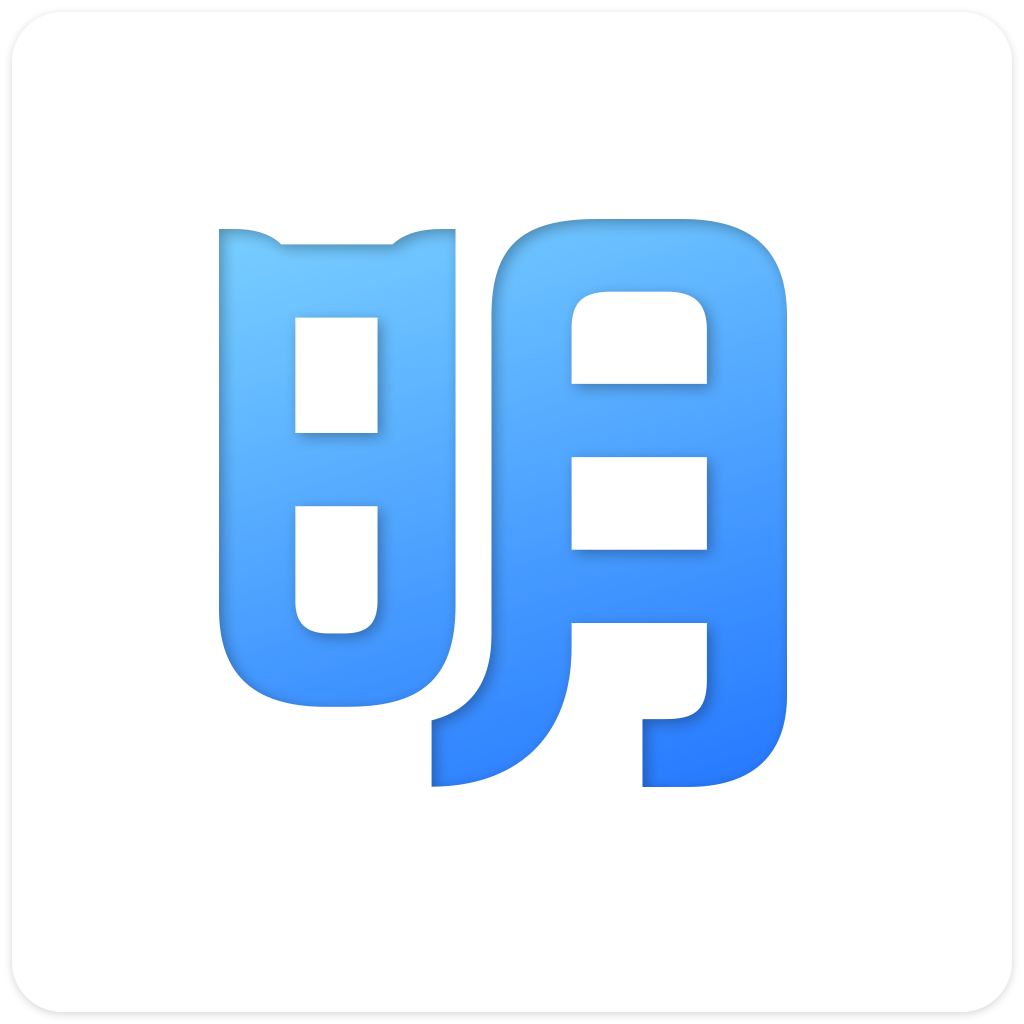
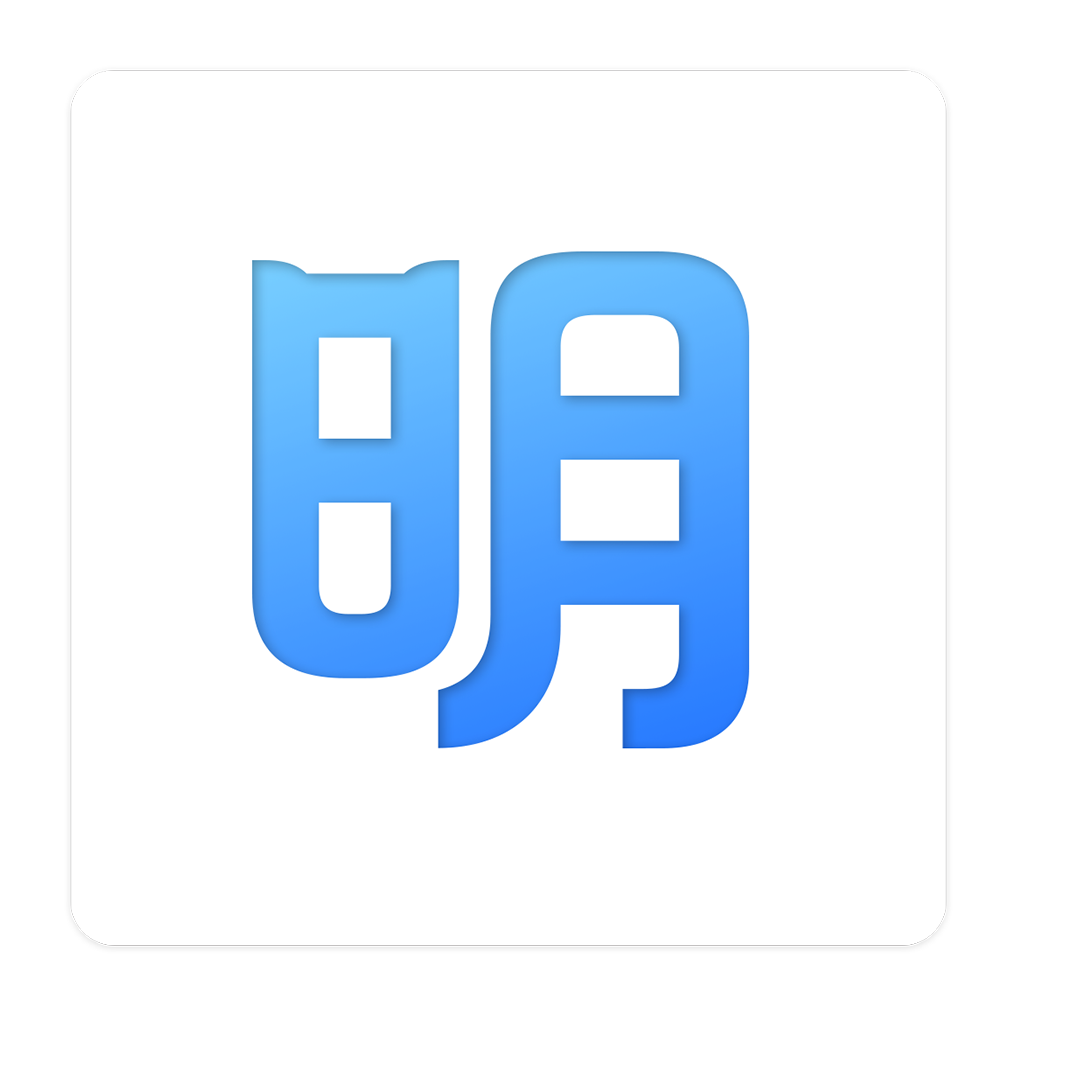
换了图标

Changed region(s): [[0.1875, 0.1875, 0.7812, 0.7812], [0.2812, 0.3125, 0.375, 0.4375]]

diff --git a/lib/index.js b/lib/index.js
@@ -87,7 +87,7 @@ function global_event($){
     var settingName="setting.json";
     var settingPath=path.join(gui.App.dataPath,settingName);
     var defaultSetting={
-        closeIsMin:false
+        closeIsMin:true
     };
     function getSetting(){
         var fs=require('fs');
@@ -127,6 +127,7 @@ function global_event($){
         win.focus();
     });
     gui.App.on("reopen",function(){
+        updateTray(jQuery("div.messageLittleRedDot").text());
         win.show();
         win.focus();
     });
@@ -178,43 +179,26 @@ var menu = new Menu();
 /**
  * tray
  */
-
+var newPng=window.isMac?'new-mac.png':'new.png';
 var updateTray=function(count){
     var global_tray=getTray();
     if (!global_tray) {
         createTray();
     }
     if (count) {
-        if (!isMac&&!GLOBAL_INTERVAL) {
-            GLOBAL_INTERVAL = setInterval(function () {
-                amount();
-            }, 600);
+        if (!isMac) {
+            if (global_tray)
+                global_tray.icon = newPng;
         }
         win.setBadgeLabel(count);
         win.requestAttention(true)
     }else{
-        if(GLOBAL_INTERVAL!=null){
-            clearInterval(GLOBAL_INTERVAL)
-            GLOBAL_INTERVAL = null;
-            if (global_tray)
-                global_tray.icon = gui.App.manifest.window.icon;
-        }
+        if (global_tray)
+            global_tray.icon = gui.App.manifest.window.icon;
         win.setBadgeLabel('');
         win.requestAttention(false)
     }
 }
-var newPng=window.isMac?'new-mac.png':'new.png';
-function amount(){
-    var global_tray=getTray();
-    if(global_tray){
-        if(global_tray.icon==newPng){
-            global_tray.icon=gui.App.manifest.window.icon;
-        }else{
-            global_tray.icon=newPng;
-        }
-    }
-}
-
 function createTray(){
     global_event(jQuery);
     var tray=new gui.Tray({icon:gui.App.manifest.window.icon});

diff --git a/lib/js/setting.js b/lib/js/setting.js
@@ -6,7 +6,7 @@
     var gui=require('nw.gui');
     var path=require('path');
     var defaultSetting={
-        closeIsMin:false
+        closeIsMin:true
     };
     var lis=$("ul.settings li");
     lis.click(function(){
